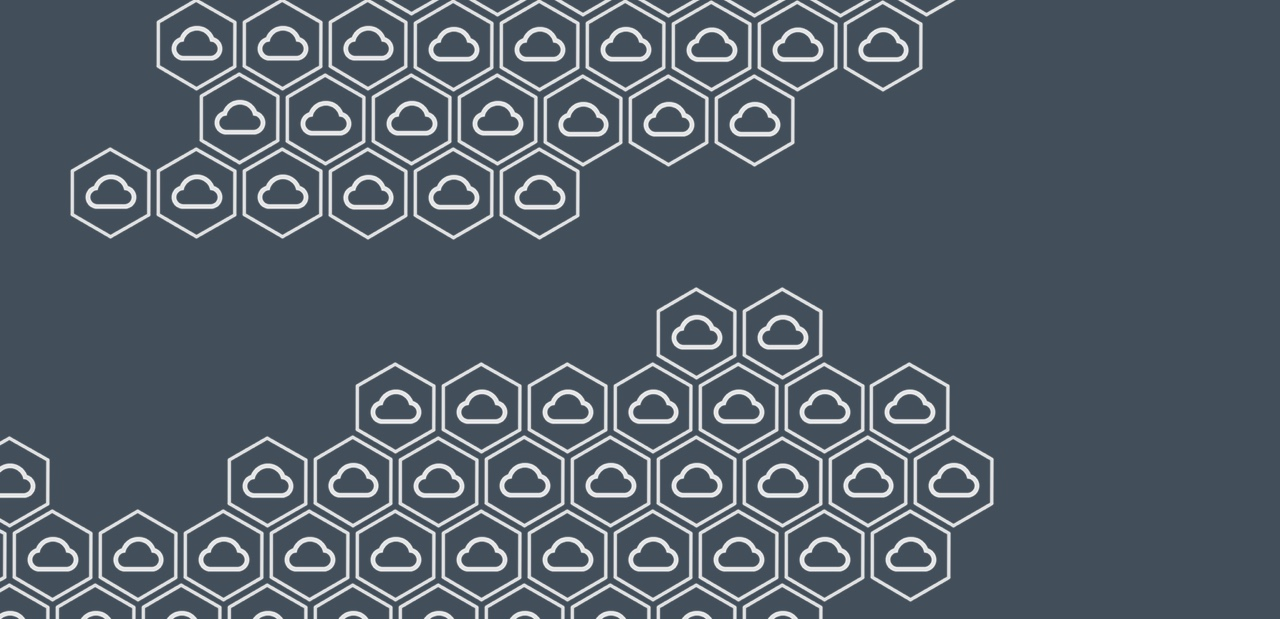
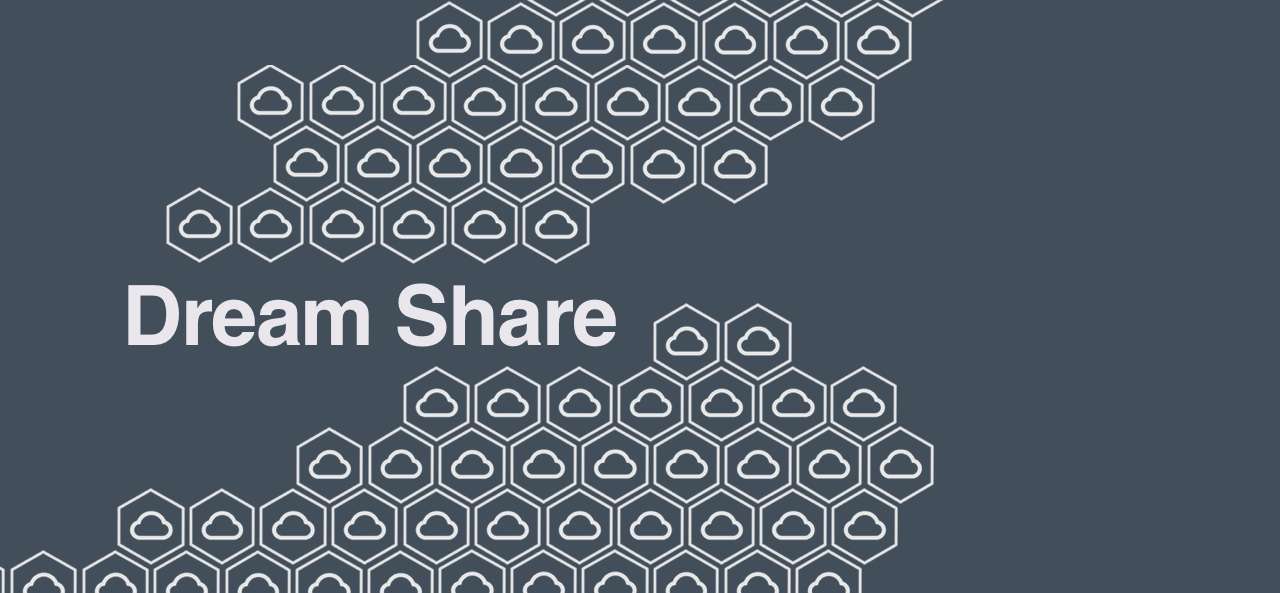
wallpaper, needs better way

Changed region(s): [[0.0, 0.0, 0.7812, 1.0]]

diff --git a/index.html b/index.html
@@ -96,13 +96,13 @@
 	<div id="group2" class="parallax__group">
 		<div class="parallax__layer parallax__layer--base">
 			<div class="dream-share-base-layer">
-
+				
 			</div>
 		</div>
 		<div class="parallax__layer parallax__layer--back">
 			<div class="dream-share-background">
 				<body>
-					<img src="https://raw.githubusercontent.com/lynneokada/website/master/images/ds/dreamsharewallpaper4.jpg" alt="dream share background">
+					<img src="https://raw.githubusercontent.com/lynneokada/website/master/images/ds/dreamsharewallpaper3.jpg" alt="dream share background">
 				</body>
 			</div>
 		</div>

diff --git a/css/styles.css b/css/styles.css
@@ -115,7 +115,7 @@ body {
 
 #group1 {
   z-index: 5; /* slide over group 2 */
-  height:100px;
+
   background:white;
 }
 #group1 .parallax__layer--base {
